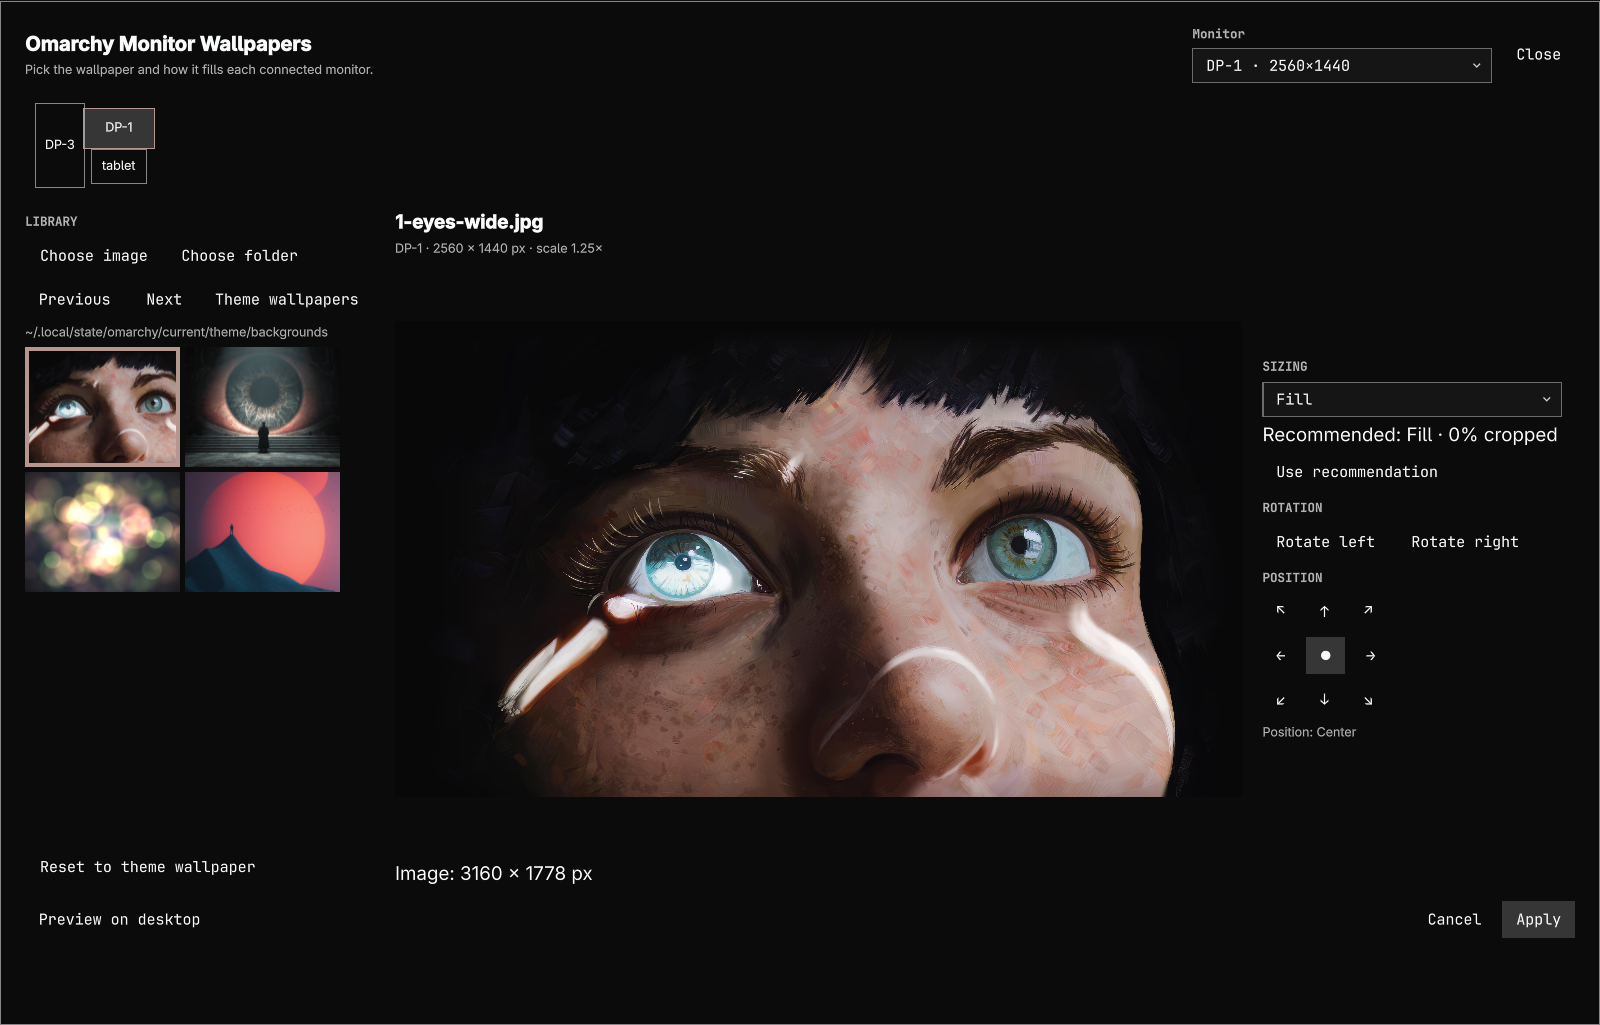
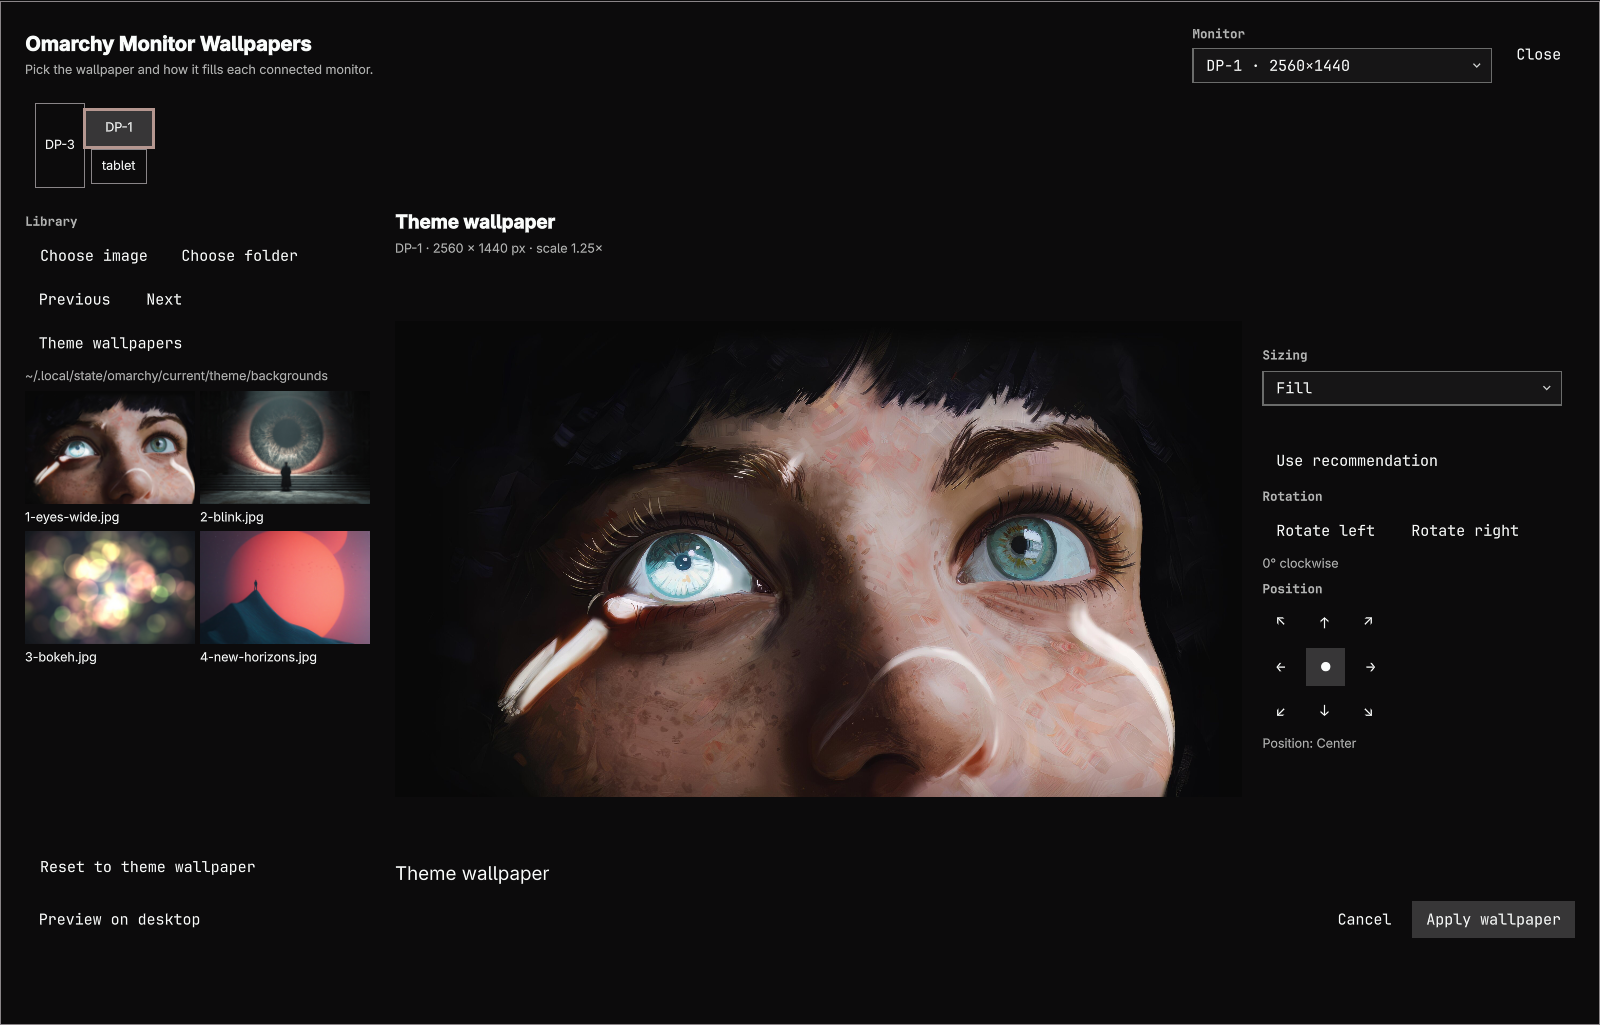
Refine native editor hierarchy, gallery captions and keyboard access

diff --git a/EditorOverlay.qml b/EditorOverlay.qml
@@ -378,6 +378,12 @@ Item {
               radius: Style.cornerRadius
               color: modelData === root.selectedMonitor ? Style.selectedFillFor(Commons.Color.foreground, Commons.Color.accent) : Commons.Color.popups.background
               border.color: modelData === root.selectedMonitor ? Commons.Color.accent : Commons.Color.popups.border
+              activeFocusOnTab: true
+              Accessible.name: "Edit wallpaper for " + modelData
+              Accessible.role: Accessible.Button
+              border.width: activeFocus || modelData === root.selectedMonitor ? 2 : 1
+              Keys.onReturnPressed: root.selectMonitor(modelData)
+              Keys.onSpacePressed: root.selectMonitor(modelData)
               Text { anchors.centerIn: parent; text: parent.modelData; color: Commons.Color.foreground; font.pixelSize: Style.font.caption }
               MouseArea {
                 anchors.fill: parent
@@ -395,7 +401,7 @@ Item {
           rowSpacing: 16
           ColumnLayout {
             Layout.preferredWidth: 280; Layout.fillWidth: card.width < 960; Layout.maximumWidth: card.width < 960 ? Infinity : 280; Layout.minimumWidth: 240; Layout.fillHeight: true
-            PanelSectionHeader { text: "LIBRARY" }
+            PanelSectionHeader { text: "Library" }
             RowLayout {
               Button {
                 focusable: true
@@ -423,18 +429,19 @@ Item {
                 enabled: root.readableImageCount > 1
                 onClicked: root.navigate(1)
               }
-              Button {
-                text: "Theme wallpapers"
-                focusable: true
-                tooltipText: "Browse the current Omarchy theme's wallpapers"
-                onClicked: root.chooseFolder(Quickshell.env("HOME") + "/.local/state/omarchy/current/theme/backgrounds")
-              }
+            }
+            Button {
+              text: "Theme wallpapers"
+              focusable: true
+              tooltipText: "Browse the current Omarchy theme's wallpapers"
+              onClicked: root.chooseFolder(Quickshell.env("HOME") + "/.local/state/omarchy/current/theme/backgrounds")
             }
             Text { text: root.folder.replace(Quickshell.env("HOME"), "~"); color: Qt.darker(Commons.Color.foreground, 1.4); font.pixelSize: Style.font.caption; elide: Text.ElideMiddle; Layout.fillWidth: true; Layout.minimumWidth: 0 }
             Text { visible: root.imageFiles.length === 0; text: "No images in this folder. Choose another folder."; color: Commons.Color.foreground; Layout.fillWidth: true; Layout.minimumWidth: 0; wrapMode: Text.WordWrap }
             GridView {
               id: gallery
-              Layout.fillWidth: true; Layout.minimumWidth: 0; Layout.fillHeight: true; clip: true; cellWidth: 128; cellHeight: 100; model: root.imageFiles
+              Layout.fillWidth: true; Layout.minimumWidth: 0; Layout.fillHeight: true; clip: true
+              cellWidth: width / Math.max(1, Math.floor(width / 128)); cellHeight: 112; model: root.imageFiles
               property bool keyboardNavigated: false
               activeFocusOnTab: true
               keyNavigationEnabled: true
@@ -447,12 +454,21 @@ Item {
               delegate: Item {
                 required property int index
                 required property string modelData
-                width: 124; height: 96
+                width: gallery.cellWidth - 4; height: gallery.cellHeight - 4
                 Image {
-                  anchors.fill: parent; source: Util.fileUrl(modelData); sourceSize: Qt.size(160, 120); fillMode: Image.PreserveAspectCrop; asynchronous: true
+                  anchors { top: parent.top; left: parent.left; right: parent.right; bottom: caption.top; bottomMargin: 4 }
+                  source: Util.fileUrl(modelData); sourceSize: Qt.size(160, 120); fillMode: Image.PreserveAspectCrop; asynchronous: true
                   onStatusChanged: if (status === Image.Error && !root.unreadable[modelData]) {
                     var copy = Object.assign({}, root.unreadable); copy[modelData] = true; root.unreadable = copy
                   }
+                }
+                Text {
+                  id: caption
+                  anchors { bottom: parent.bottom; left: parent.left; right: parent.right }
+                  text: (root.imagePath === modelData ? "✓ " : "") + modelData.substring(modelData.lastIndexOf("/") + 1)
+                  font.pixelSize: Style.font.caption
+                  color: root.imagePath === modelData ? Commons.Color.accent : Commons.Color.foreground
+                  elide: Text.ElideMiddle
                 }
                 Text { anchors.centerIn: parent; visible: !!root.unreadable[modelData]; text: "Can't open image"; color: Commons.Color.urgent; wrapMode: Text.WordWrap; width: parent.width; horizontalAlignment: Text.AlignHCenter }
                 Rectangle {
@@ -498,7 +514,7 @@ Item {
           }
           ColumnLayout {
             Layout.preferredWidth: 250; Layout.fillWidth: card.width < 960; Layout.maximumWidth: card.width < 960 ? Infinity : 250; Layout.minimumWidth: 210
-            PanelSectionHeader { text: "SIZING" }
+            PanelSectionHeader { text: "Sizing" }
             Dropdown { showLabel: false; Accessible.name: "Sizing"; options: [{value:"fill",label:"Fill"},{value:"fit",label:"Fit"},{value:"stretch",label:"Stretch"},{value:"original",label:"Original size"},{value:"custom",label:"Custom size"}]; value: root.mode; onChanged: function(v) { root.mode = String(v) } }
             Text { visible: (root.mode === "original" || root.mode === "custom") && root.canvas().physical !== true; text: "Physical monitor dimensions are unavailable; Original size and Custom size cannot be applied."; color: Commons.Color.urgent; Layout.fillWidth: true; Layout.minimumWidth: 0; wrapMode: Text.WordWrap }
             RowLayout {
@@ -510,13 +526,13 @@ Item {
             Text { visible: !!root.recommendation && root.recommendation.enlarged; text: "This image may look blurry when enlarged"; color: Commons.Color.urgent; Layout.fillWidth: true; Layout.minimumWidth: 0; wrapMode: Text.WordWrap }
             Button { text: "Use recommendation"; focusable: true; enabled: !!root.recommendation; onClicked: if (root.recommendation) root.mode = root.recommendation.mode }
             Text { visible: root.distorted; text: "This sizing changes the image proportions."; color: Commons.Color.urgent; Layout.fillWidth: true; Layout.minimumWidth: 0; wrapMode: Text.WordWrap }
-            PanelSectionHeader { text: "ROTATION" }
+            PanelSectionHeader { text: "Rotation" }
             RowLayout {
               Button { text: "Rotate left"; focusable: true; onClicked: { root.rotation = (root.rotation + 270) % 360; if (root.imagePath) root.selectImage(root.imagePath) } }
               Button { text: "Rotate right"; focusable: true; onClicked: { root.rotation = (root.rotation + 90) % 360; if (root.imagePath) root.selectImage(root.imagePath) } }
-              Text { visible: root.rotation !== 0; text: "Rotated " + root.rotation + "°"; color: Qt.darker(Commons.Color.foreground, 1.4); font.pixelSize: Style.font.caption }
             }
-            PanelSectionHeader { text: "POSITION" }
+            Text { text: root.rotation + "° clockwise"; color: Qt.darker(Commons.Color.foreground, 1.4); font.pixelSize: Style.font.caption }
+            PanelSectionHeader { text: "Position" }
             Repeater {
               model: [0, 1, 2]
               delegate: RowLayout {
@@ -543,7 +559,7 @@ Item {
           Button { text: "Preview on desktop"; focusable: true; enabled: !root.savePending && (!root.imagePath || root.selectionReady) && (["original", "custom"].indexOf(root.mode) < 0 || root.canvas().physical === true); onClicked: root.preview() }
           Item { Layout.fillWidth: true }
           Button { text: "Cancel"; focusable: true; onClicked: root.close() }
-          Button { text: root.savePending ? "Saving…" : "Apply"; focusable: true; active: true; foreground: enabled ? Commons.Color.foreground : Commons.Color.muted; enabled: !root.savePending && !root.settingsConflict && root.canvas().width > 0 && (!root.imagePath || root.selectionReady) && (["original", "custom"].indexOf(root.mode) < 0 || root.canvas().physical === true); onClicked: root.apply() }
+          Button { text: root.savePending ? "Saving…" : "Apply wallpaper"; focusable: true; active: true; foreground: enabled ? Commons.Color.foreground : Commons.Color.muted; enabled: !root.savePending && !root.settingsConflict && root.canvas().width > 0 && (!root.imagePath || root.selectionReady) && (["original", "custom"].indexOf(root.mode) < 0 || root.canvas().physical === true); onClicked: root.apply() }
         }
       }
       }

diff --git a/README.md b/README.md
@@ -59,9 +59,11 @@ Or double-left-click an unobstructed desktop background. Double-right-click reta
 2. **Choose a wallpaper.** Browse the theme library, use Previous/Next, or select a custom image or folder.
 3. **Adjust the composition.** Pick sizing, rotate the image, and choose its position. Recommendations are optional and never change your mode automatically.
 4. **Preview on desktop.** The editor collapses to a small countdown bar. End the preview to return, or let it expire after 20 seconds.
-5. **Apply.** Saves only the selected monitor and keeps the editor open for further comparisons.
+5. **Apply wallpaper.** Saves only the selected monitor and keeps the editor open for further comparisons.
 
 Cancel, Escape, or closing the editor discards unsaved drafts and clears desktop preview. File pickers temporarily hide the overlay without discarding the draft; cancelling a picker preserves it.
+
+Thumbnail captions show filenames; a checkmark and accent border identify the chosen image. Tab to the gallery, use arrow keys to browse, and press Enter to select. Monitor tiles also support Tab and Enter or Space.
 
 Choose **Reset to theme wallpaper** to clear an independent image and follow Omarchy's shared wallpaper. Sizing and rotation remain available per monitor.
 
@@ -161,7 +163,7 @@ Source images, settings, cache, and a separate development checkout are independ
 | `background editorState` not found | The clone is not loaded, or another renderer owns the IPC target. Check ownership. |
 | Image cannot be prepared | Check source readability and the `magick` and `identify` executables. |
 | Settings refused | Check JSON/schema, ownership, symlinks, and the 64 KiB size limit. Last-good settings remain in memory. |
-| Settings changed externally | Close and reopen the editor. Apply stays disabled while the draft is conflicted. |
+| Settings changed externally | Close and reopen the editor. Apply wallpaper stays disabled while the draft is conflicted. |
 | Desktop preview not visible | Application windows cover the wallpaper layer. Use an empty workspace to inspect it. |
 | Original/Custom disabled | Check physical dimensions, transform, and scale in `hyprctl monitors -j`. |
 
